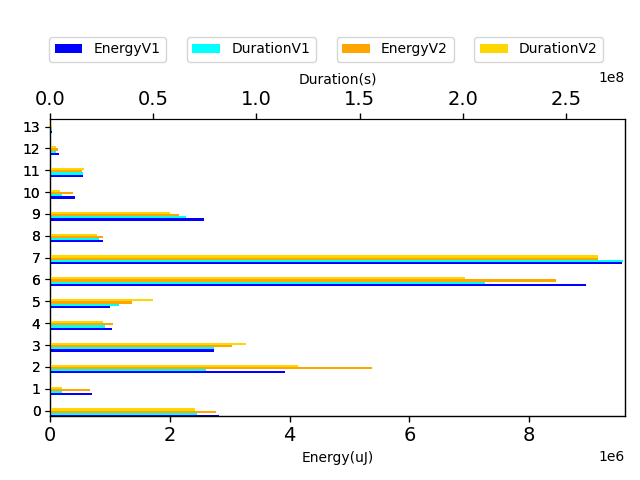
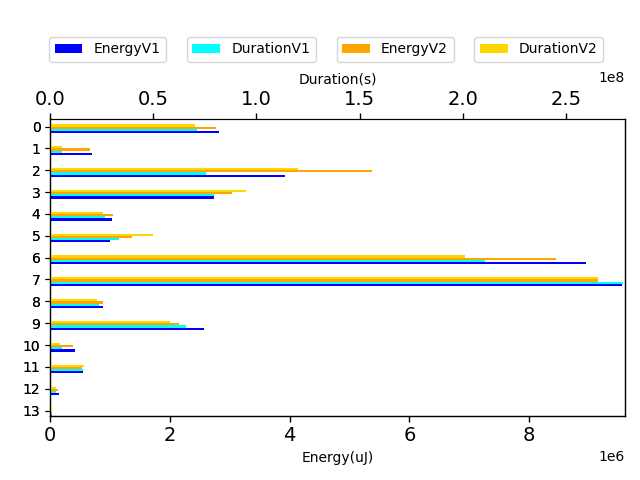
fix: use now the same order between graph and delta graph

diff --git a/src/main/python/build_graph.py b/src/main/python/build_graph.py
@@ -31,6 +31,12 @@ def build_graph(energies_v1, durations_v1, energies_v2, durations_v2, labels, ou
 
     tkw = dict(size=4, width=1)
 
+    energies_v1.reverse()
+    durations_v1.reverse()
+    energies_v2.reverse()
+    durations_v2.reverse()
+    labels.reverse()
+
     energy_v1_ax = fig.add_subplot(111)
     for tick in energy_v1_ax.yaxis.get_major_ticks():
         tick.label.set_fontsize(6)
